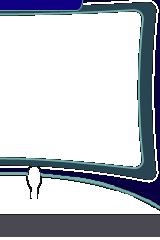
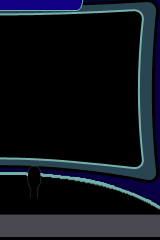
Commit change from convpng to convimg (with crash on splash screen render)

diff --git a/src/rendering/gui.c b/src/rendering/gui.c
@@ -31,14 +31,14 @@ void stats_DrawHealthBar(uint24_t health, uint24_t length, uint24_t x, uint8_t y
 }
 
 void gfx_InitModuleIcons(void){
-    uint24_t src = MODICON_START, ct = TrekGFX_num - MODICON_START, i;
+    uint24_t src = MODICON_START, ct = 28 - MODICON_START, i;
     
     for(i = 0; i < ct; i++){
-        modicons[i] = ((gfx_rletsprite_t*)TrekGFX[src++]);
+        modicons[i] = ((gfx_rletsprite_t*)TrekGFX_appvar[src++]);
     }
 }
 
-uint8_t gfx_RenderSplash(gfx_rletsprite_t *splash) {
+uint8_t gfx_RenderSplash(gfx_rletsprite_t* splash) {
     uint24_t text_x = 60;
     uint8_t text_y = 140;
     uint8_t selected = 0;
@@ -122,8 +122,7 @@ bool gui_Login(void) {
 
     return ntwk_send(LOGIN,
         PS_STR(settings.userinfo.username),
-        PS_STR(settings.userinfo.passwd),
-        PS_ARR(version)
+        PS_STR(settings.userinfo.passwd)
     );
 }
 
@@ -145,8 +144,7 @@ bool gui_Register(void) {
     return ntwk_send(REGISTER,
         PS_STR(settings.userinfo.username),
         PS_STR(settings.userinfo.passwd),
-        PS_STR(email),
-        PS_ARR(version)
+        PS_STR(email)
     );
 }
 

diff --git a/src/network/in.c b/src/network/in.c
@@ -26,7 +26,11 @@ void conn_HandleInput(packet_t *in_buff, size_t buff_size) {
     switch(ctl){
         case REGISTER:
         case LOGIN:
-            if(response == SUCCESS) {gameflags.logged_in = true; break;}
+            if(response == SUCCESS) {
+                gameflags.logged_in = true;
+                ntwk_send(VERSION, PS_ARR(version));
+                break;
+            }
             if((response == MISSING) && (ctl == LOGIN)) gui_Register();
             else {
                 memset(&settings.userinfo, 0, sizeof(userinfo_t));

diff --git a/src/rendering/gui.h b/src/rendering/gui.h
@@ -9,7 +9,7 @@ extern gfx_rletsprite_t* modicons[TARG_SENS + 1];
 
 void stats_DrawHealthBar(uint24_t health, uint24_t length, uint24_t x, uint8_t y, uint8_t height, uint8_t border, uint8_t bg, uint8_t bar);
 void gfx_InitModuleIcons(void);
-uint8_t gfx_RenderSplash(gfx_rletsprite_t *splash);
+uint8_t gfx_RenderSplash(gfx_rletsprite_t* splash);
 void gfx_RenderWindow(uint24_t x, uint8_t y, uint24_t width, uint8_t height, uint8_t borderColor, uint8_t windowColor, uint8_t borderSize);
 bool gui_Login(void);
 bool gui_Register(void);

diff --git a/src/network/controlcodes.h b/src/network/controlcodes.h
@@ -19,6 +19,7 @@ enum ControlCodes {
     REQENTITY,      // request entity framedata
     REQSENSOR,  // Ask server for (1) position, (2) rotation matrix, (3) sensor data
     REQNEWGAME,
+    VERSION = 0xf0,
     PING = 0xfc,
     MESSAGE = 0xfd,
     DEBUG = 0xfe,

diff --git a/src/main.c b/src/main.c
@@ -59,7 +59,7 @@
 char *settingsappv = "TrekSett";
 char *TEMP_PROGRAM = "_";
 char *MAIN_PROGRAM = "TITREK";
-char version[] = {0, 0, 91};
+char version[] = {0, 0, 92};
 char versionstr[12] = {0};
 ship_t Ship = {0};
 selected_t select = {0, 0};
